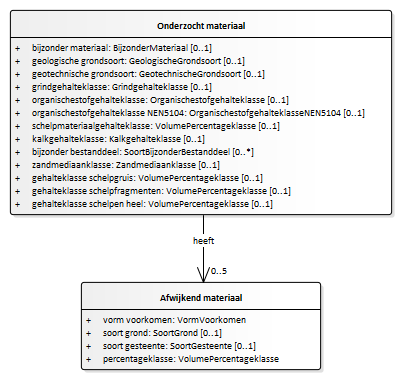
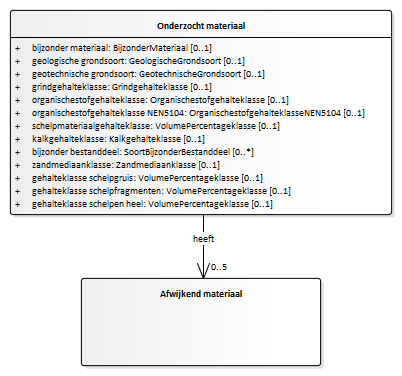
Conceptualmodel-GeologischbooronderzoekBHR-G-0.99-3-20200518-20200714-093352

Changed region(s): [[0.0299, 0.0585, 0.9851, 0.5851], [0.209, 0.7021, 0.806, 0.9654], [0.4776, 0.6144, 0.5373, 0.6436]]

diff --git a/data/BHR-G-cat.msword.html b/data/BHR-G-cat.msword.html
@@ -15,7 +15,7 @@
    <body>
       <p>Conceptual model/Geologisch booronderzoek (BHR-G)/20200518</p>
       <p>Imvertor: 1.61.0</p>
-      <p>Model release: Conceptualmodel-GeologischbooronderzoekBHR-G-0.99-3-20200518-20200714-001933</p>
+      <p>Model release: Conceptualmodel-GeologischbooronderzoekBHR-G-0.99-3-20200518-20200714-093352</p>
       <hr>
       <section>
          <h1>Artikel 1 Definitie van registratieobject, entiteiten en attributen</h1>
@@ -14250,7 +14250,7 @@
                      </section>
                </section><a class="anchor" id="graph_EAID_F2AA089D_C13C_460b_9304_2860F47C68D5"></a><a class="anchor" id="global_class_Model_Onderzochtmateriaal"></a><section id="global_class_Model_Onderzochtmateriaal">
                   <h3>   Onderzocht materiaal</h3>
-                  <div class="imageinfo "><img src="Images/EAID_C472A232_2E73_489f_8B11_E1C67EBFCD68.png" usemap="#imagemap-EAID_C472A232_2E73_489f_8B11_E1C67EBFCD68" alt="Diagram "><map name="imagemap-EAID_C472A232_2E73_489f_8B11_E1C67EBFCD68"><area shape="rect" alt="Afwijkend materiaal" coords="81,282,321,370" href="#graph_EAID_371124A2_C98D_46e8_A77D_40245957A7DF"><area shape="rect" alt="Onderzocht materiaal" coords="10,10,392,215" href="#graph_EAID_F2AA089D_C13C_460b_9304_2860F47C68D5"></map><p><b></b></p>
+                  <div class="imageinfo "><img src="Images/EAID_C472A232_2E73_489f_8B11_E1C67EBFCD68.png" usemap="#imagemap-EAID_C472A232_2E73_489f_8B11_E1C67EBFCD68" alt="Diagram "><map name="imagemap-EAID_C472A232_2E73_489f_8B11_E1C67EBFCD68"><area shape="rect" alt="Afwijkend materiaal" coords="81,278,321,366" href="#graph_EAID_371124A2_C98D_46e8_A77D_40245957A7DF"><area shape="rect" alt="Onderzocht materiaal" coords="10,10,392,215" href="#graph_EAID_F2AA089D_C13C_460b_9304_2860F47C68D5"></map><p><b></b></p>
                   </div>
                   <table style="width: 100%;">
                      <colgroup style="width: 30%;"></colgroup>
@@ -36910,31 +36910,77 @@
                      <th>Omschrijving</th>
                   </tr>
                   <tr>
-                     <td>brokjes</td>
-                     <td></td>
+                     <td>brokjesErgKlein</td>
+                     <td>
+                        
+                        <p>De lengte is minder dan 2 mm.</p>
+                        </td>
                   </tr>
                   <tr>
-                     <td>sedimentlenzen</td>
-                     <td></td>
+                     <td>brokjesKlein</td>
+                     <td>
+                        
+                        <p>De lengte ligt tussen 2 en 6 mm.</p>
+                        </td>
+                  </tr>
+                  <tr>
+                     <td>brokjesVrijKlein</td>
+                     <td>
+                        
+                        <p>De lengte ligt tussen 6 en 20 mm.</p>
+                        </td>
+                  </tr>
+                  <tr>
+                     <td>brokjesVrijGroot</td>
+                     <td>
+                        
+                        <p>De lengte ligt tussen 20 en 60 mm.</p>
+                        </td>
+                  </tr>
+                  <tr>
+                     <td>brokjesGroot</td>
+                     <td>
+                        
+                        <p>De lengte ligt tussen 60 en 200 mm.</p>
+                        </td>
                   </tr>
                   <tr>
                      <td>laagjesErgDunGelamineerd</td>
-                     <td></td>
+                     <td>
+                        
+                        <p>De dikte van de laagjes is kleiner dan 2 mm.</p>
+                        </td>
                   </tr>
                   <tr>
                      <td>laagjesDunGelamineerd</td>
-                     <td></td>
+                     <td>
+                        
+                        <p>De dikte van de laagjes ligt tussen 2 en 6 mm.</p>
+                        </td>
                   </tr>
                   <tr>
                      <td>laagjesDikGelamineerd</td>
-                     <td></td>
+                     <td>
+                        
+                        <p>De dikte van de laagjes ligt tussen 6 en 20 mm.</p>
+                        </td>
                   </tr>
                   <tr>
                      <td>laagjesErgDunGelaagd</td>
-                     <td></td>
+                     <td>
+                        
+                        <p>De dikte van de laagjes ligt tussen 20 en 60 mm.</p>
+                        </td>
                   </tr>
                   <tr>
                      <td>laagjesDunGelaagd</td>
+                     <td>
+                        
+                        <p>De dikte van de laagjes ligt tussen 60 en 200 mm.</p>
+                        </td>
+                  </tr>
+                  <tr>
+                     <td>sedimentlenzen</td>
                      <td></td>
                   </tr>
                </tbody>
